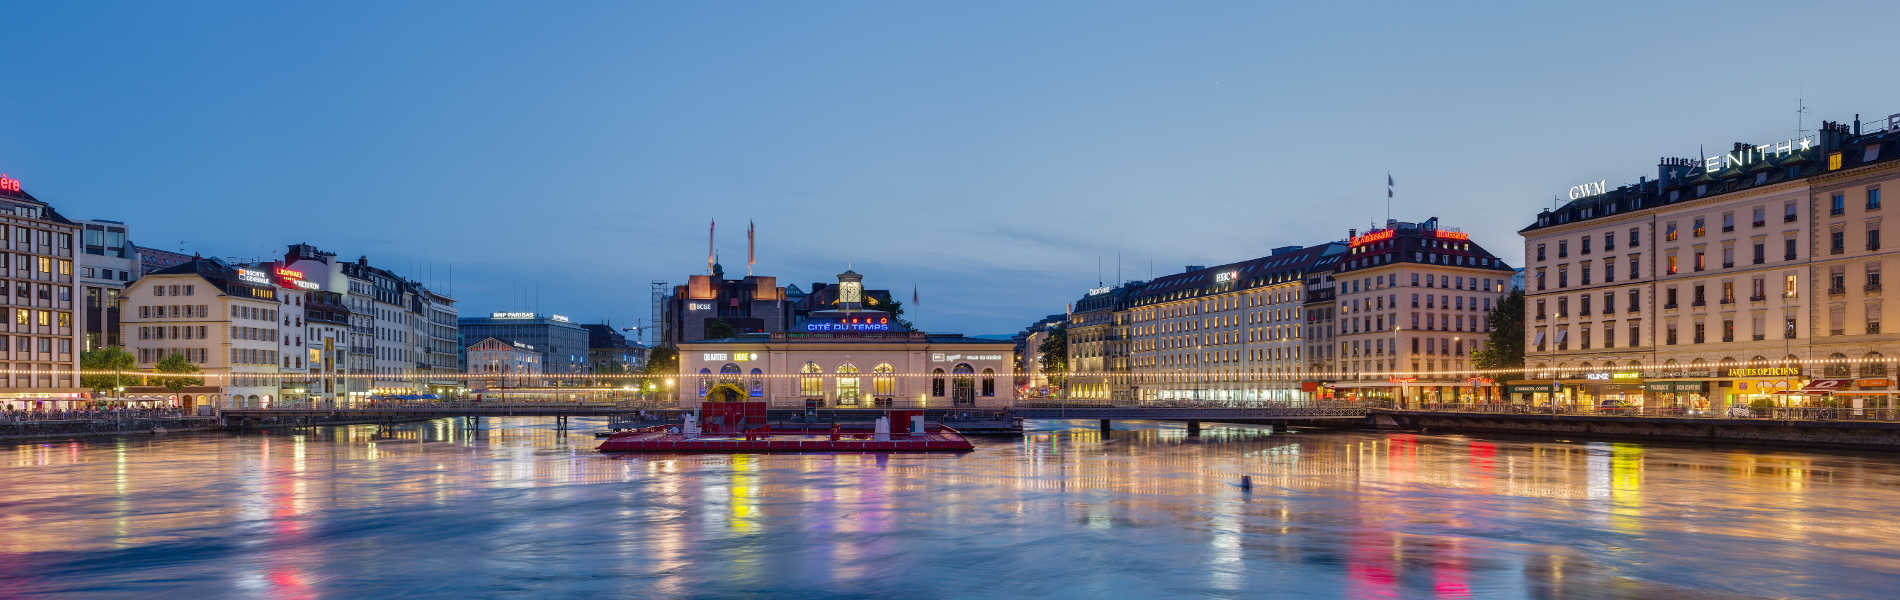
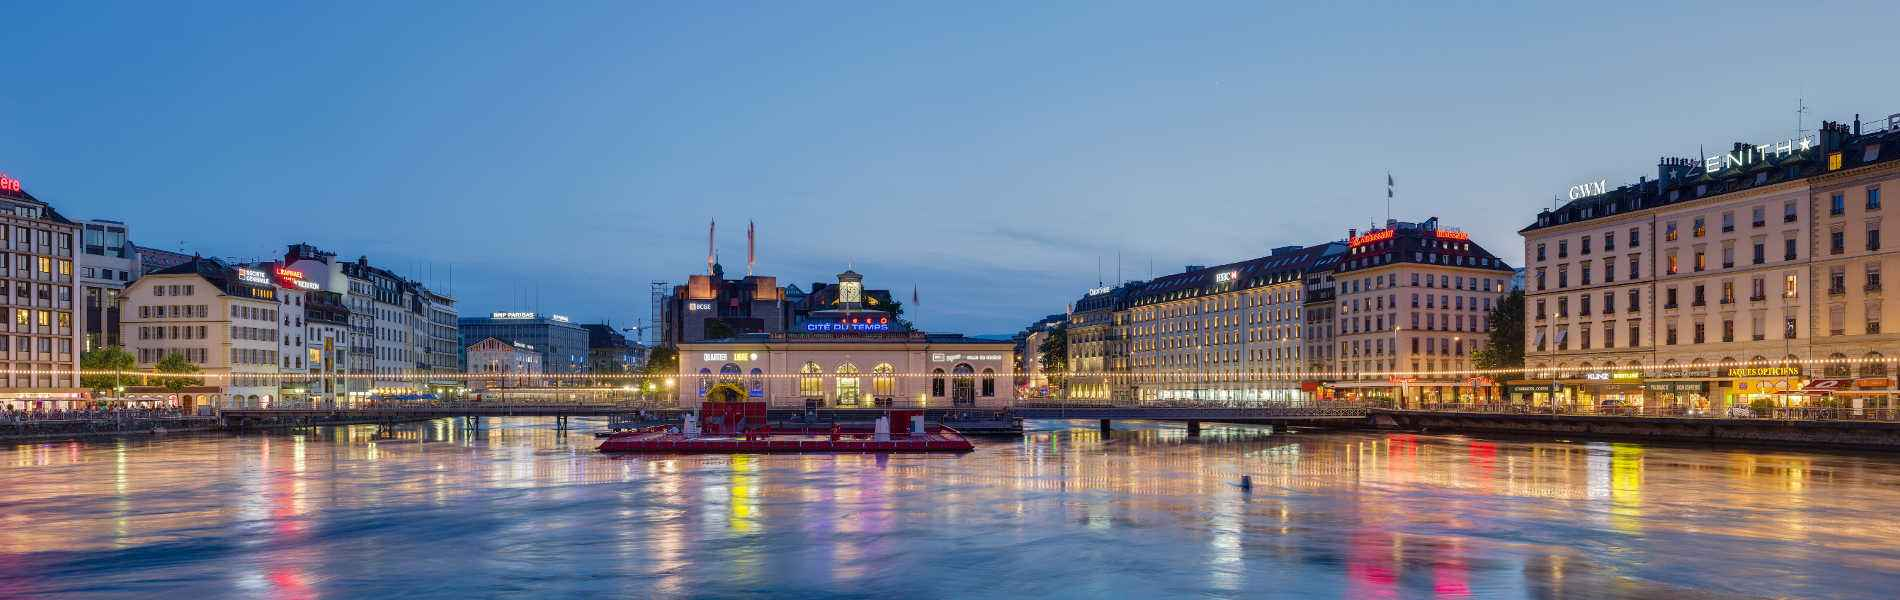
optimize iamges

diff --git a/src/components/HowItWorks.vue b/src/components/HowItWorks.vue
@@ -2,7 +2,7 @@
   <div class="container mt-5">
     <div class="row">
       <div class="col-md-6 py-2">
-        <img class="mx-auto d-block img-fluid" src="../assets/screenshot1.png">
+        <img class="mx-auto d-block img-fluid" src="../assets/screenshot-reservation.jpg">
       </div>
       <div class="col-md-6 py-2">
         <h2>RÉSERVER SUR NOTRE SITE, APPLICATION OU PAR TÉLÉPHONE</h2>
@@ -15,7 +15,7 @@
       </div>
     </div>
     <div class="row mt-3">
-      <img class="mx-auto d-block hidden-md-up img-fluid" src="../assets/screenshot2.png">
+      <img class="mx-auto d-block hidden-md-up img-fluid" src="../assets/screenshot-options.jpg">
       <div class="col-md-6 py-2">
         <h2>VOTRE COURSE</h2>
         <p>Transport One met à disposition les services suivant, sélectionner les au besoin.</p>
@@ -28,12 +28,12 @@
         <p>D’autres détails telle que "Code d’entrée" ou "appeler le client une fois que nous sommes là" peuvent être aussi annoté.</p>
       </div>
       <div class="col-md-6 py-2 hidden-sm-down">
-        <img class="mx-auto d-block img-fluid" src="../assets/screenshot2.png">
+        <img class="mx-auto d-block img-fluid" src="../assets/screenshot-options.jpg">
       </div>
     </div>
     <div class="row mt-3">
       <div class="col-md-6 py-2">
-        <img class="mx-auto d-block img-fluid" src="../assets/screenshot3.png">
+        <img class="mx-auto d-block img-fluid" src="../assets/screenshot-map.jpg">
       </div>
       <div class="col-md-6 py-2">
         <h2>RESERVATION</h2>
@@ -43,7 +43,7 @@
       </div>
     </div>
     <div class="row mt-3">
-      <img class="mx-auto d-block hidden-md-up img-fluid" src="../assets/screenshot4.png">
+      <img class="mx-auto d-block hidden-md-up img-fluid" src="../assets/screenshot-login.jpg">
       <div class="col-md-6 py-2">
         <h2>ÉVALUEZ VOTRE COURSE</h2>
         <p>Une fois votre course terminée, n’hésitez pas à nous donner votre avis. Pour ce faire, connectez-vous avec votre compte <strong>Facebook/Gmail</strong> ou créez tout simplement un compte Transport One et laissé votre avis sur la page <a href="#/partenaires">Partneraires & avis</a>.</p>
@@ -51,7 +51,7 @@
         <p>Vous pouvez également évaluer votre course en laissant un avis sur notre page <strong>Facebook</strong>.</p>
       </div>
       <div class="col-md-6 py-2 hidden-sm-down">
-        <img class="mx-auto d-block img-fluid" src="../assets/screenshot4.png">
+        <img class="mx-auto d-block img-fluid" src="../assets/screenshot-login.jpg">
       </div>
     </div>
   </div>

diff --git a/src/components/Home.vue b/src/components/Home.vue
@@ -2,11 +2,11 @@
   <div>
     <div class="jumbotron jumbotron-fluid bg-intro bg-cover-xl">
       <div class="container text-center">
-        <pricing class="py-5"></pricing>
-        <h2 class="text-white pt-5 text-uppercase"><strong>TRANSPORT AGRéE DE PERSONNES ÂgéES – ADULTES – ENFANTS</strong></h2>
-        <h2 class="text-white pt-3 text-uppercase"><strong>AVEC OU SANS MOBILITé RéDUITE</strong></h2>
-        <h2 class="text-white pt-3 text-uppercase"><strong>LA GARANTIE DU MEILLEUR PRIX SUR GENÈVE</strong></h2>
-        <h2 class="text-white pt-3 text-uppercase"><strong>TEL : 079.900.28.28</strong></h2>
+        <pricing class="py-2 py-md-5"></pricing>
+        <h2 class="text-white pt-4 pt-md-5 text-uppercase"><strong>TRANSPORT AGRéE DE PERSONNES ÂgéES – ADULTES – ENFANTS</strong></h2>
+        <h2 class="text-white pt-2 pt-md-3 text-uppercase"><strong>AVEC OU SANS MOBILITé RéDUITE</strong></h2>
+        <h2 class="text-white pt-2 pt-md-3 text-uppercase"><strong>LA GARANTIE DU MEILLEUR PRIX SUR GENÈVE</strong></h2>
+        <h2 class="text-white pt-2 pt-md-3 text-uppercase"><strong>TEL : 079.900.28.28</strong></h2>
       </div>
     </div>
     <div class="container py-5 mb-4">
